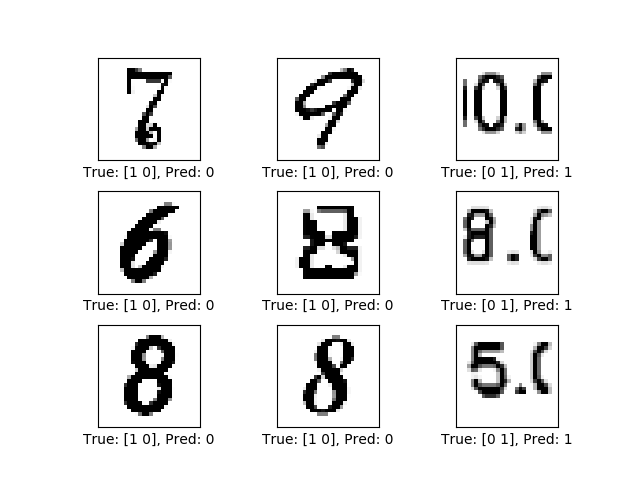
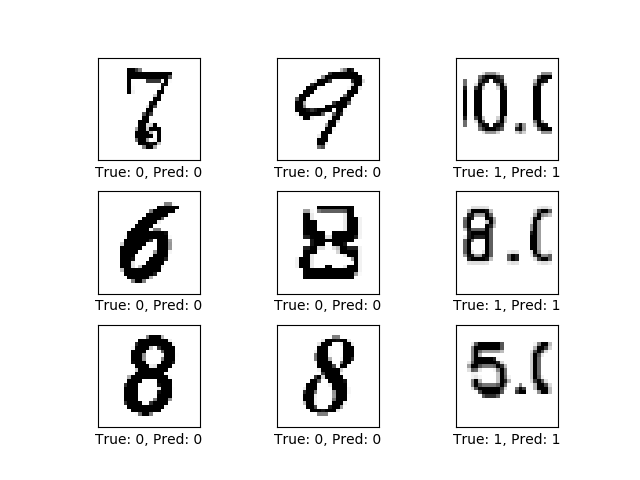
class correction

diff --git a/debug_tools.py b/debug_tools.py
@@ -27,7 +27,10 @@ def plot_images(images, img_shape,cls_true, cls_pred=None):
         if cls_pred is None:
             xlabel = "True: {0}".format(cls_true[i])
         else:
-            xlabel = "True: {0}, Pred: {1}".format(cls_true[i], cls_pred[i])
+            #to find corrrect class index
+            cls = np.where(cls_true[i] == 1)[0][0]
+
+            xlabel = "True: {0}, Pred: {1}".format(cls, cls_pred[i])
 
         # Show the classes as the label on the x-axis.
         ax.set_xlabel(xlabel)
